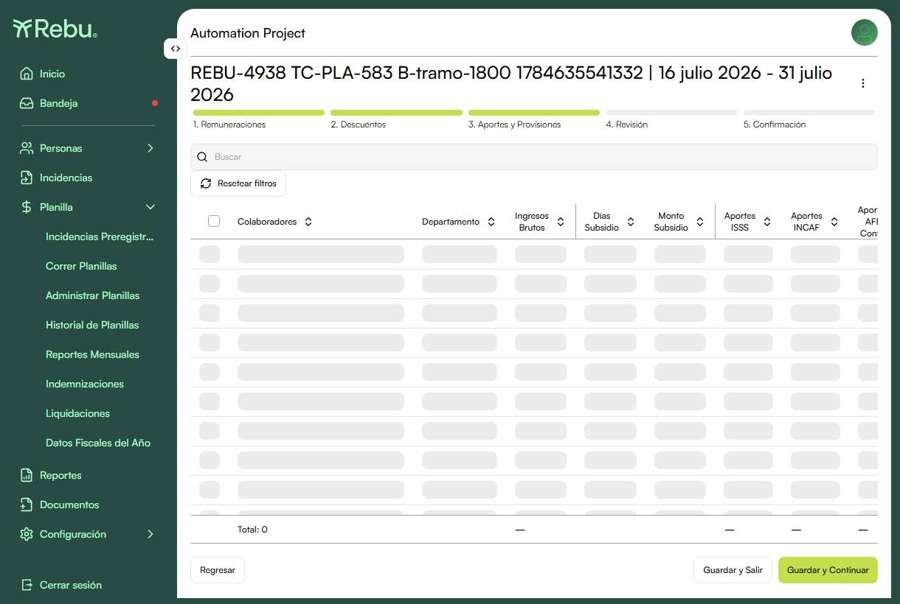
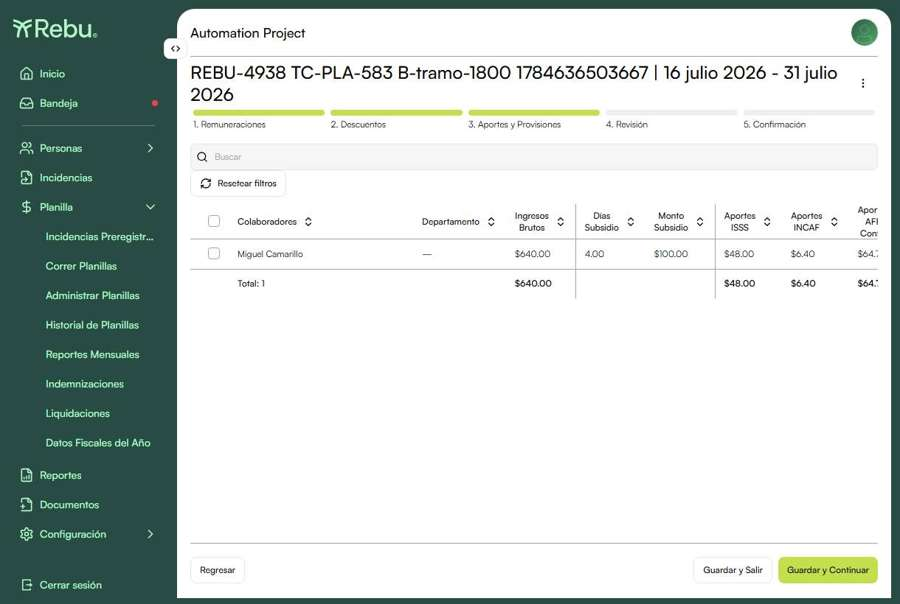
report(v15.3.0): mejora evidencia de TC-PLA-583 (Aportes y Provisiones con Días/Monto Subsidio)

diff --git a/index.html b/index.html
@@ -198,7 +198,7 @@
 <tr class="test-row" onclick="toggleDetail(this)"><td class="test-id">TC-PLA-589</td><td><div class="test-name">Dos cambios intracíclicos → 3 tramos ($1,500 / $1,800 / $2,100)</div><div class="test-tags"><span class="tag tag-val">api-ui</span><span class="tag tag-val">planilla</span><span class="tag tag-val">ausencias</span><span class="tag tag-val">regulatory</span></div></td><td class="status-cell"><span class="badge-pass">PASS</span></td></tr>
 <tr class="detail-row"><td colspan="3"><table class="case-steps"><tr><th>Precondiciones</th><td>Empleado $1,500 + cambios a $1,800 (20-jul) y $2,100 (25-jul); ausencia 18-27 jul (abarca los 3 tramos).</td></tr><tr><th>Distribución por tramos</th><td class="result-text">Los días se distribuyen entre los 3 tramos según su fecha; el tramo intermedio queda 100% cubierto por ausencia.</td></tr><tr><th>Resultado obtenido</th><td class="result-text">periodSalary $310.00, días 5. Tramos: {$1,500 × 2d = $100} + {$1,800 × 0d = $0} + {$2,100 × 3d = $210}. Los 3 salarios presentes en el desglose. ✅</td></tr><tr><th>Evidencia</th><td><div style="display:flex;gap:12px;flex-wrap:wrap;padding:4px 0"><div style="flex:1;min-width:220px"><div style="font-size:10px;font-weight:700;color:#284b44;letter-spacing:.5px;text-transform:uppercase;margin-bottom:6px">01 — Remuneraciones con la ausencia</div><img src="assets/v15.3.0/TC-PLA-589/01.jpg" style="max-width:100%;border-radius:6px;border:1px solid #d4e8d0;box-shadow:0 1px 4px rgba(0,0,0,.08)" /></div><div style="flex:1;min-width:220px"><div style="font-size:10px;font-weight:700;color:#284b44;letter-spacing:.5px;text-transform:uppercase;margin-bottom:6px">02 — Columnas Días Trabajados / Salario</div><img src="assets/v15.3.0/TC-PLA-589/02.jpg" style="max-width:100%;border-radius:6px;border:1px solid #d4e8d0;box-shadow:0 1px 4px rgba(0,0,0,.08)" /></div></div></td></tr><tr><th>Status</th><td><span class="badge-pass">PASS</span></td></tr></table></td></tr>
 <tr class="test-row" onclick="toggleDetail(this)"><td class="test-id">TC-PLA-583</td><td><div class="test-name">Ausencia SUBSIDIADA (incapacidad): el subsidio se topa a $1,000; el cambio de salario intracíclico no lo altera</div><div class="test-tags"><span class="tag tag-val">api-ui</span><span class="tag tag-val">planilla</span><span class="tag tag-val">ausencias</span><span class="tag tag-val">provisiones</span><span class="tag tag-val">regulatory</span></div></td><td class="status-cell"><span class="badge-pass">PASS</span></td></tr>
-<tr class="detail-row"><td colspan="3"><table class="case-steps"><tr><th>Precondiciones</th><td>Empleado $1,500 + cambio a $1,800 vigente 20-jul; incapacidad enfermedad/riesgo común SUBSIDIADA 18-21 jul (4 días).</td></tr><tr><th>Fórmula (REBU-4610 AC2/AC3)</th><td class="result-text">Subsidio = (MIN(salarioVigente, $1,000) / 30) × 0.75 × díasSubsidiados. El <strong>tope ISSS de $1,000</strong> absorbe el cambio de tramo: MIN(1,500,1,000)=MIN(1,800,1,000)=$1,000.</td></tr><tr><th>Resultado obtenido</th><td class="result-text">subsidyDays 4, subsidyAmount <strong>$100.00</strong> = (1,000/30)×0.75×4. Idéntico con base plana $1,500 y con cambio a $1,800 (tope). El pago de días trabajados (grossEarnings $640) SÍ usa los tramos $1,500/$1,800; el subsidio topado no. Dos lógicas correctas. ✅</td></tr><tr><th>Evidencia</th><td><div style="display:flex;gap:12px;flex-wrap:wrap;padding:4px 0"><div style="flex:1;min-width:220px"><div style="font-size:10px;font-weight:700;color:#284b44;letter-spacing:.5px;text-transform:uppercase;margin-bottom:6px">01 — Incapacidad subsidiada con cambio intracíclico</div><img src="assets/v15.3.0/TC-PLA-583/01.jpg" style="max-width:100%;border-radius:6px;border:1px solid #d4e8d0;box-shadow:0 1px 4px rgba(0,0,0,.08)" /></div></div></td></tr><tr><th>Status</th><td><span class="badge-pass">PASS</span></td></tr></table></td></tr>
+<tr class="detail-row"><td colspan="3"><table class="case-steps"><tr><th>Precondiciones</th><td>Empleado $1,500 + cambio a $1,800 vigente 20-jul; incapacidad enfermedad/riesgo común SUBSIDIADA 18-21 jul (4 días).</td></tr><tr><th>Fórmula (REBU-4610 AC2/AC3)</th><td class="result-text">Subsidio = (MIN(salarioVigente, $1,000) / 30) × 0.75 × díasSubsidiados. El <strong>tope ISSS de $1,000</strong> absorbe el cambio de tramo: MIN(1,500,1,000)=MIN(1,800,1,000)=$1,000.</td></tr><tr><th>Resultado obtenido</th><td class="result-text">subsidyDays 4, subsidyAmount <strong>$100.00</strong> = (1,000/30)×0.75×4. Idéntico con base plana $1,500 y con cambio a $1,800 (tope). El pago de días trabajados (grossEarnings $640) SÍ usa los tramos $1,500/$1,800; el subsidio topado no. Dos lógicas correctas. ✅</td></tr><tr><th>Evidencia</th><td><div style="display:flex;gap:12px;flex-wrap:wrap;padding:4px 0"><div style="flex:1;min-width:220px"><div style="font-size:10px;font-weight:700;color:#284b44;letter-spacing:.5px;text-transform:uppercase;margin-bottom:6px">01 — Aportes y Provisiones: Días Subsidio 4 · Monto Subsidio $100.00</div><img src="assets/v15.3.0/TC-PLA-583/01.jpg" style="max-width:100%;border-radius:6px;border:1px solid #d4e8d0;box-shadow:0 1px 4px rgba(0,0,0,.08)" /></div><div style="flex:1;min-width:220px"><div style="font-size:10px;font-weight:700;color:#284b44;letter-spacing:.5px;text-transform:uppercase;margin-bottom:6px">02 — Columnas de subsidio / aportes (scroll)</div><img src="assets/v15.3.0/TC-PLA-583/02.jpg" style="max-width:100%;border-radius:6px;border:1px solid #d4e8d0;box-shadow:0 1px 4px rgba(0,0,0,.08)" /></div></div></td></tr><tr><th>Status</th><td><span class="badge-pass">PASS</span></td></tr></table></td></tr>
     </tbody>
   </table>
 </div>